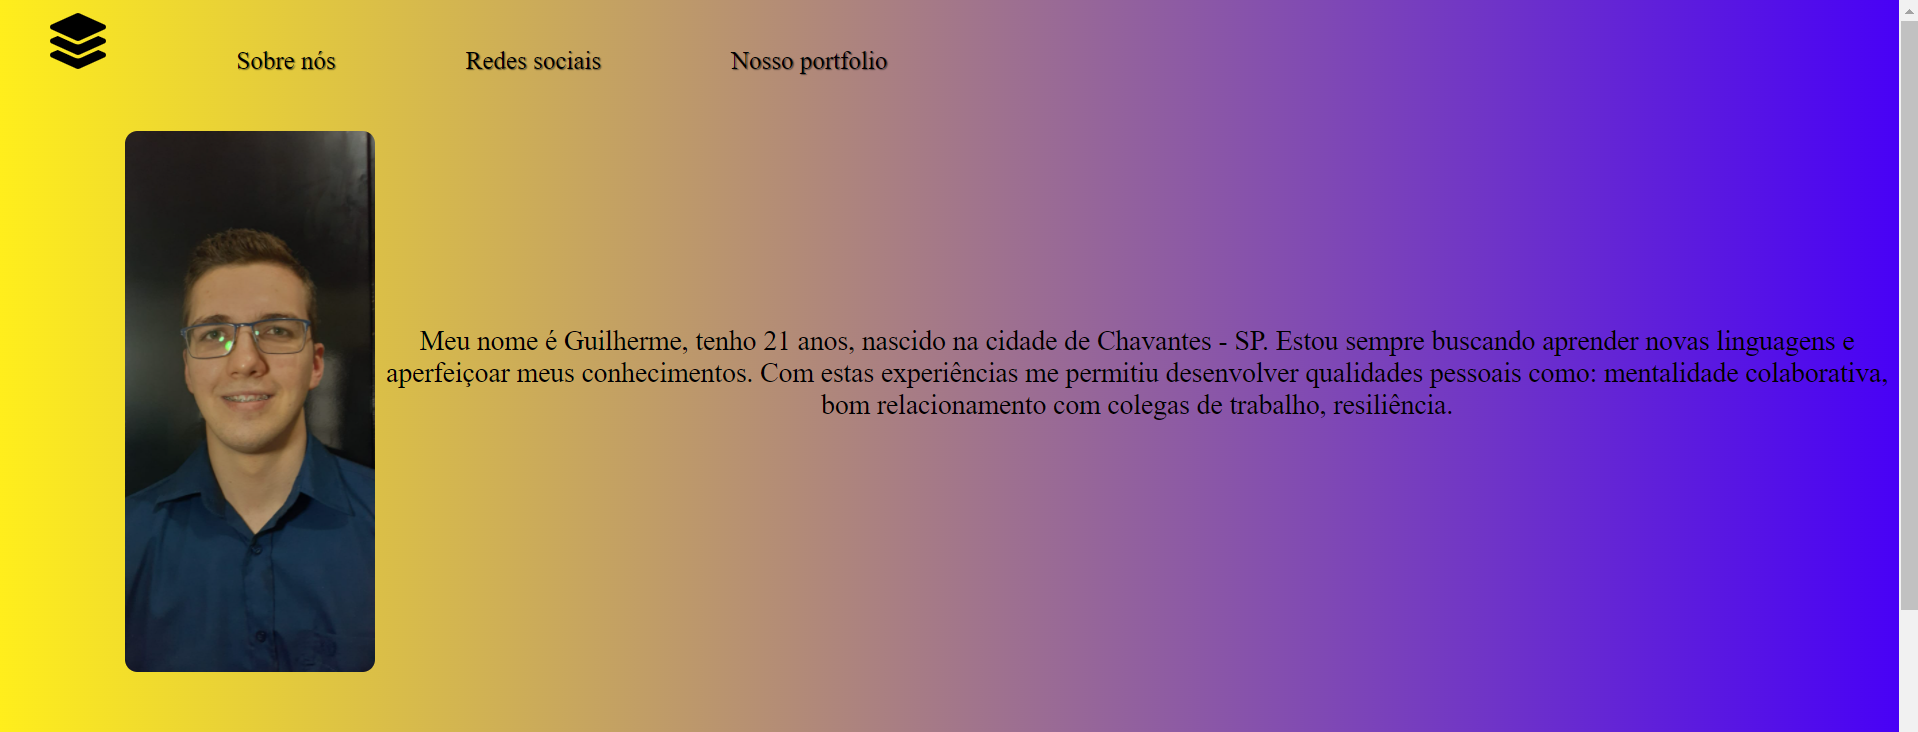
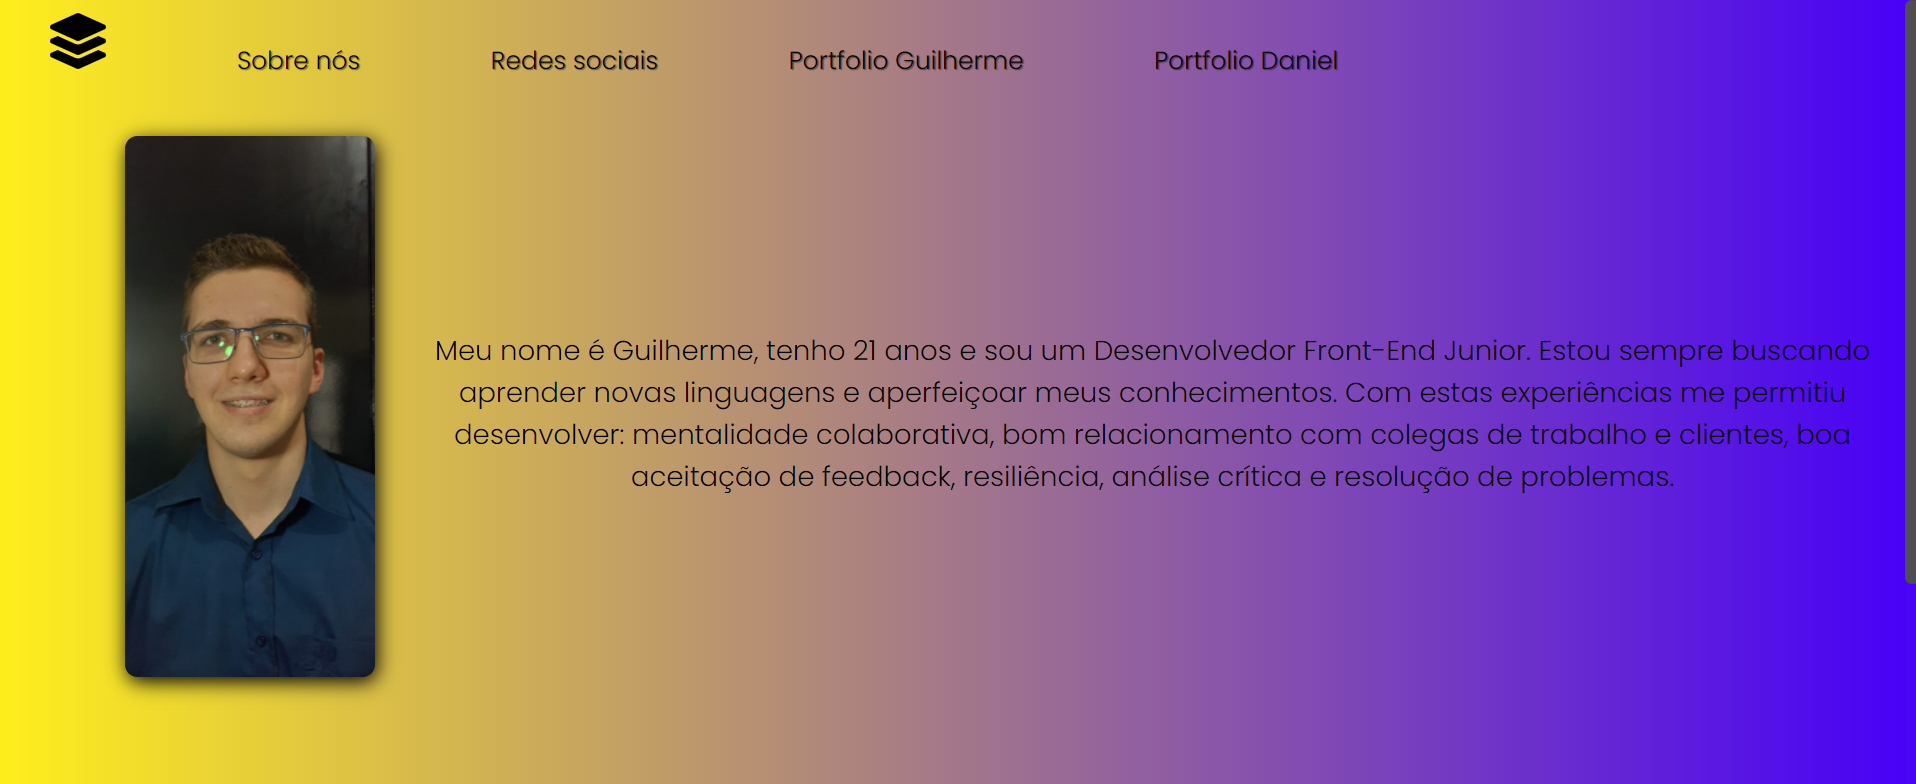
Added Daniel's Portfolio and changed README images.

diff --git a/README.md b/README.md
@@ -2,21 +2,36 @@
 
 
 <img src="./assets/Print one.png" alt="Photo Portfolio">
-<img src="./assets/Print two.png" alt="Photo Portfolioo">
+<img src="./assets/Print two.png" alt="Photo Portfolio">
 
 > Presentation image about us and our goals.
+
+<br>
 
 <img src="./assets/Print three.png" alt="Photo Social Networks">
 
 > Image about our social networks.
 
-<img src="./assets/Print four.png" alt="Guilherme-s Portfolio Photo">
-<img src="./assets/Print five.png" alt="Guilherme's Portfolio Photo">
-<img src="./assets/Print six.png" alt="Guilherme's Portfolio Photo">
+<br>
+
+<img src="./assets/Print four.png"  alt="Guilherme-s Portfolio Photo">
+<img src="./assets/Print five.png"  alt="Guilherme's Portfolio Photo">
+<img src="./assets/Print six.png"   alt="Guilherme's Portfolio Photo">
 <img src="./assets/Print seven.png" alt="Guilherme's Portfolio Photo">
 <img src="./assets/Print eight.png" alt="Guilherme's Portfolio Photo">
 
-> Added Guilherme's Portfolio to the project
+> Added Guilherme's Portfolio to the project.
+
+<br>
+
+<img src="./assets/Print nine.png" alt="Daniel's Portfolio Photo">
+<img src="./assets/Print ten.png" alt="Daniel's Portfolio Photo">
+<img src="./assets/Print eleven.png" alt="Daniel's Portfolio Photo">
+<img src="./assets/Print twelve.png" alt="Daniel's Portfolio Photo">
+
+> Added Daniel's Portfolio to the project.
+
+<br>
 
 ### Adjustments and improvements
 
@@ -25,9 +40,11 @@ The project is still under development and future updates will focus on the foll
 - [x] About Us.
 - [x] Social networks.
 - [x] Guilherme's Portfolio.
-- [ ] Daniel's portfolio.
+- [x] Daniel's portfolio.
+- [ ] Create responsiveness.
 - [ ] Portfolio in constant update.
-
+<br>
+- [GitHub pages - Portfolio](https://gui1703.github.io/Portfolio/) - Project Portfolio where the recruiter can analyze our knowledge and the projects made. The projects interact with the user without leaving the portfolio.
 ## 🤝 Contributors.
 
 We thank the following people who contributed to this project:
